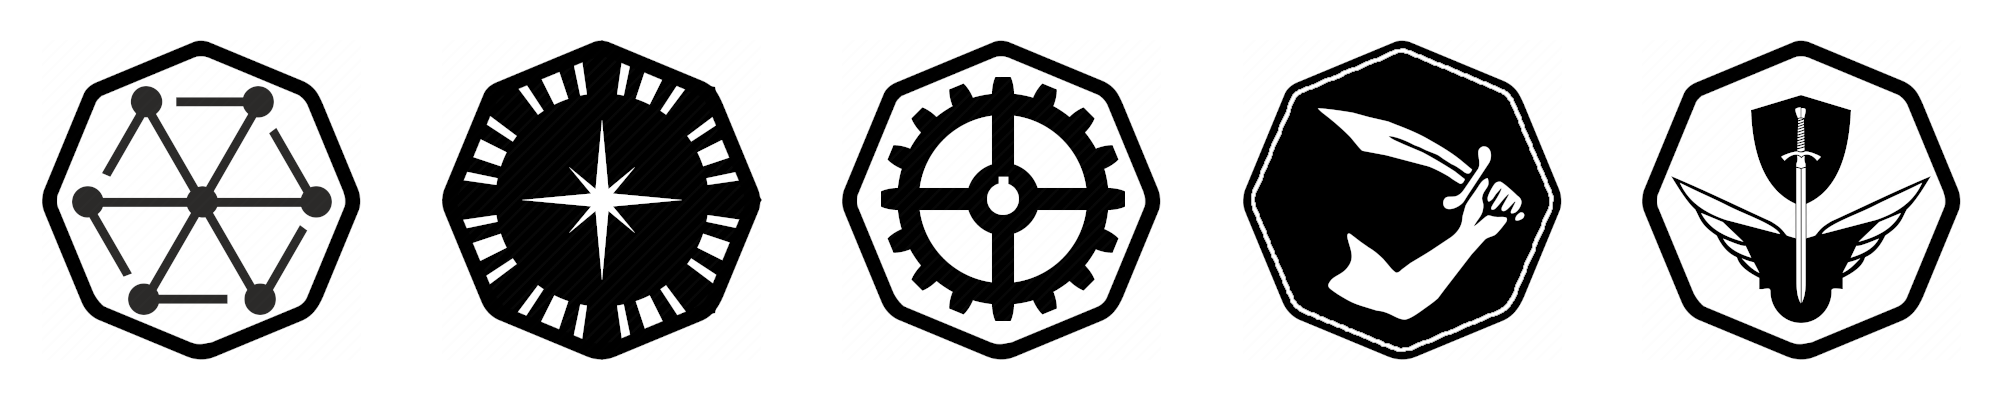
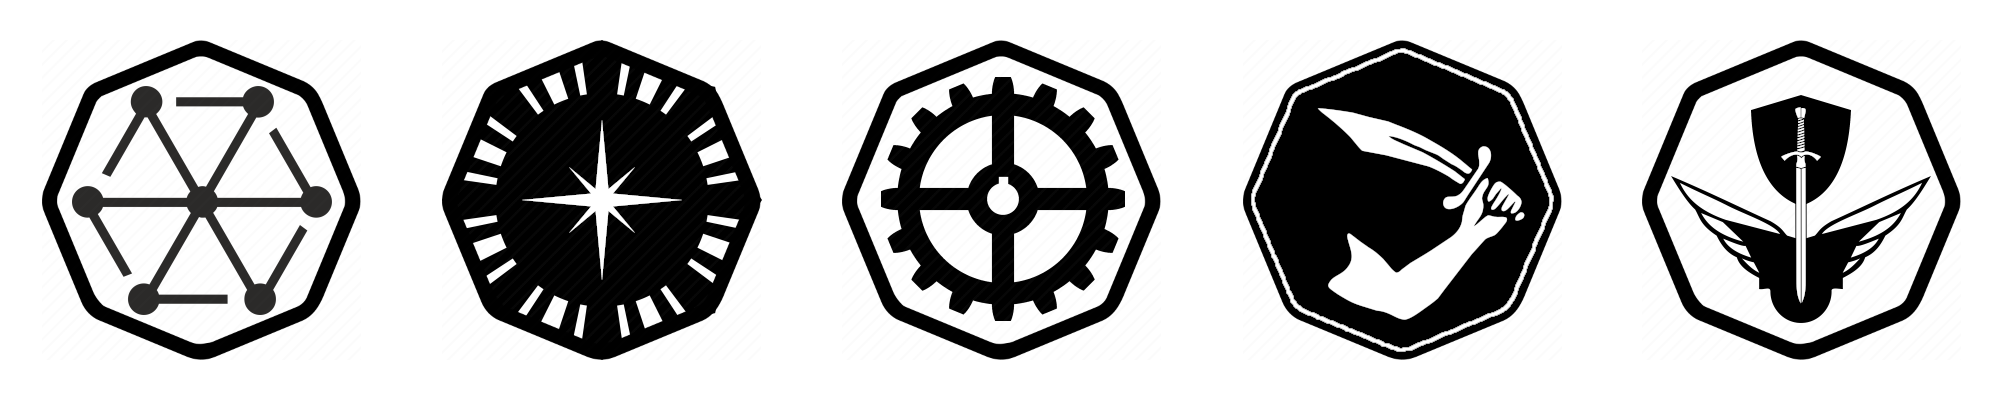
Theme reset 1. Adding inverted version of images with updated references in the document. Including initial version of wp and dao.

Changed region(s): [[0.93, 0.48, 0.961, 0.51], [0.837, 0.48, 0.868, 0.51], [0.093, 0.24, 0.124, 0.27]]

diff --git a/org/README.md b/org/README.md
@@ -1,5 +1,5 @@
 # Organizing the Citadel
-![Organizing a decentralized virtual world](img/header_alt.png)
+![Organizing a decentralized virtual world](img/header_i.png)
 
 The launch of the Citadel will represent a fairly radical experiment in decentralizing a blockchain gaming project. This is accomplished via the Citadel DAO, to which the majority of both funding and ownership are handed trustlessly via smart contracts on launch day. Once this happens, the founding team will become community members alongside everyone else with the exception of a set of well defined and programmatically revokable privileges appropriate for overseeing the early phases of the game and project. There are many opportunities and challenges that await us on this journey, and it will be up to all of us in the community to decide how we are to meet them. 
 
@@ -115,7 +115,7 @@ This approach solves a big problem with self-governance in that a pure direct de
 
 We could decide to make roles pluralistic in that one individual could be assigned to more than one role if that was feasible given the responsibilities of the role. In this way, "jobs" in the DAO would be more about actively fulfilling the responsibilities of a well defined role than holding a single full-time position by default (not that some roles wouldn't entail full time workloads). 
 
-The creation of a privileged role and the assigning of community members to that role can still happen via governance proposals, so each community member still retains a voice in all of this. Meanwhile, the DAO is able to operate efficiently at scale on a day-to day-basis. 
+The creation of a privileged role and the assigning of community members to that role can still happen via governance proposals, so each community member retains a voice in all of this. Meanwhile, the DAO is able to operate efficiently at scale on a day-to day-basis. 
 
 Some DAOs choose to standardize a type of role hierarchy within working groups which could look something like the below examples:
 
@@ -128,7 +128,7 @@ Some DAOs choose to standardize a type of role hierarchy within working groups w
 
 The goal here is not to create a strict boss-employee dynamic; after all, everyone involved is ultimately from the community and working for the community. Rather, we can optimize for the "minimum viable hierarchy" that enables efficient decision making and provides oversight and accountability for the use of treasury funds. 
 
-![Citadels Working Groups](img/workinggroups.png)
+![Citadels Working Groups](img/workinggroups_i.png)
 
 The proposed groups above are a starting point to get us all thinking about how the DAO could be structured.
 
@@ -180,7 +180,7 @@ First and foremost, the goal of gamification should not be to dumb anything down
 
 1. **Optimize** the user experience across all points of contact in the organization. Find ways to remove friction from all processes, clear away barriers and bloat, and streamline interfaces. 
 
-2. **Incentivize** positive sum action taking amongst free actors. Identify the most important actions or contributions and explicitly recognizing their value via formalized rewards. 
+2. **Incentivize** positive sum action taking amongst free actors. Identify the most important actions or contributions and explicitly recognize their value via formalized rewards. 
 
 Incentives that convey an increased sense of ownership, social status or recognition, or other intangible rewards should be used wherever possible as these will motivate individuals who are *intrinsically* motivated (long term interest in the project) vs. financial rewards that will appeal more to those who are *extrinsically* motivated (short-term interest, self serving). 
 
@@ -188,9 +188,9 @@ In this way, we can define gamification as the design of positive sum feedback l
 
 ## A Universal Achievement System
 
-At the heart of the gamification strategy could be an achievement system that provides primarily non-financial recognition and rewards for positive contributions and behavior throughout the entire ecosystem. You, the player, are the "character" or "avatar" of this system that earns achievement badges, XP, levels, and special roles. These achievements and titles could follow you around wherever you go in the virtual world, potentially unlocking access to restricted content, privileges, and exclusive benefits. 
+At the heart of the gamification strategy could be an achievement system that provides primarily non-financial recognition and intrinsic rewards for positive contributions and behavior throughout the entire ecosystem. You, the player, are the "character" or "avatar" of this system that earns achievement badges, XP, levels, and special roles. These achievements and titles could follow you around wherever you go in the virtual world, potentially unlocking access to restricted content, privileges, and exclusive benefits. 
 
-![Universal Achievements](img/achievements.png)
+![Universal Achievements](img/achievements_i.png)
 
 In a way, these universal achievements constitute your performance history and record as a player and community member. All your accomplishments would ideally be publicly visible across the primary interfaces. In Discord, this could be represented with special roles and titles. In the game interface, there could be a "trophy room" that displays all your accolades and stats, and perhaps these things could be visible to other players via your in-game profile. Or perhaps there's a dedicated "community dashboard", which we'll explore more later. 
 
@@ -207,7 +207,7 @@ World XP could also be earned by completing educational courses, participating i
 
 
 ### Achievement Badges
-![achievement badges](img/badges.png)
+![achievement badges](img/badges_i.png)
 
 The concept of achievement badges takes inspiration from both the in-game achievements most of us are familiar with in modern games as well as <a href="https://poap.xyz/">POAPs</a> (digital mementos). The goal is both to reward valuable, positive actions and contributions as well as to commemorate important steps taken throughout the journey of a community member. They would also be great for recognizing participation in a community event or contest. Many achievements would likely also coincide with earning XP. 
 
@@ -227,7 +227,7 @@ In most RPG games with a level system, levels generally correspond with reaching
 
 One use case for levels could be minimum level requirements for gaining access to various community and DAO related privileges. It could make sense for leadership roles in DAO working groups to require minimum levels to even be eligible for consideration. 
 
-Another possibility is where levels that generally coincide with senior or leadership roles (Level 6 and up) can't be earned automatically and require satisfying a set of pre-requisites in order to considered for manual promotion by higher ranking roles in the DAO. With this approach, we could even consider entrusting special privileges to the highest levels like limited moderation powers in Discord. 
+Another possibility is with levels that generally coincide with senior or leadership roles (Level 6 and up) can't be earned automatically and require satisfying a set of pre-requisites in order to considered for manual promotion by higher ranking roles in the DAO. With this approach, we could even consider entrusting special privileges to the highest levels like limited moderation powers in Discord. 
 
 
 ### Quests 
@@ -241,7 +241,7 @@ One interesting possibility is that we could allow aspiring pilots that don't ha
 
  We've thus far established that A DAO structure based on working groups brings us much closer to a functional operating framework as an organization. A universal achievement system provides a toolkit of fun, non-financial rewards that can be used to gamify any part of the ecosystem and motivate collective autonomous action taking. But if we are to take this idea of a truly self sufficient, decentralized autonomous world seriously, we need to think about how it will actually operate as a holistic system. 
 
-![The World Engine](img/worldloop.png)
+![The World Engine](img/worldloop_i.png)
 
 One way to envision a self perpetuating, self organizing autonomous world is as a loop of loops. In the above diagram, we can identify three separate loops that all feed into each other to form one master "game loop" of the overall system. 
 
@@ -254,7 +254,7 @@ One way to envision a self perpetuating, self organizing autonomous world is as 
 Let's discuss each piece in more detail.
 
 ## The Economic Loop
-![The Flywheel](img/flywheel.png)
+![The Flywheel](img/flywheel_i.png)
 
 The economic engine is powered by three different kinds of "activity motors": 
 
@@ -272,15 +272,15 @@ A major potential advantage of a decentralized autonomous world project is that 
 
 The challenge is in how best to facilitate and incentivize high quality community contributions. 
 
+<p style="text-align: center"><img src="img/contributors_journey.png" /></p>
 
-![Contributor's Journey](img/contributors_journey.png)
 <p style="text-align:center; font-style: italic">Source:  1kxnetwork <a href="https://medium.com/1kxnetwork/how-to-grow-decentralized-communities-1bf1044924f8">How to Grow Decentralized Communities</a></p>
 
 The above graphic describes a "contributor's journey" that starts with a brand new participant and takes them along a path of becoming a high-value, trusted pillar of the community. All throughout the journey, they are motivated by the contributor feedback cycle a.k.a. the *contributor loop* as we refer to it in our model. 
 
 The goal is to allow users to self identify their strengths and talents and then align them as quickly and efficiently as possible with educational materiels and contribution opportunities related to those talents. Those contributions are then rewarded, which in turn incentives the seeking of new opportunities to contribute. 
 
-![The Contributor Funnel](img/contributor_funnel.png)
+![The Contributor Funnel](img/contributor_funnel_i.png)
 
 The entry point for a new user should be like the top of a funnel, where we want to highlight the various opportunities to participate and contribute and then point newcomers in that direction. Ideally, there are clear  call-to-actions for the different contribution opportunities right from the first point of entry. The goal is to move them from becoming aware of the project, to engaging with the community on some level, to making their first meaningful act of contribution to the community. 
 
@@ -294,7 +294,7 @@ One important aspect of improving the on-boarding process is to not only *offer*
 
 At a minimum, we will want accessible guides and documentation on everything related to the game and DAO. We could then take it a step further by extending our gamified systems to the learning process. 
 
-![The Learning Loop](img/learning_loop.png)
+![The Learning Loop](img/learning_loop_i.png)
 
 We could create a series of courses that players would  progress through and "pass". Passing a course could be incentivized by a number of types of rewards:
 
